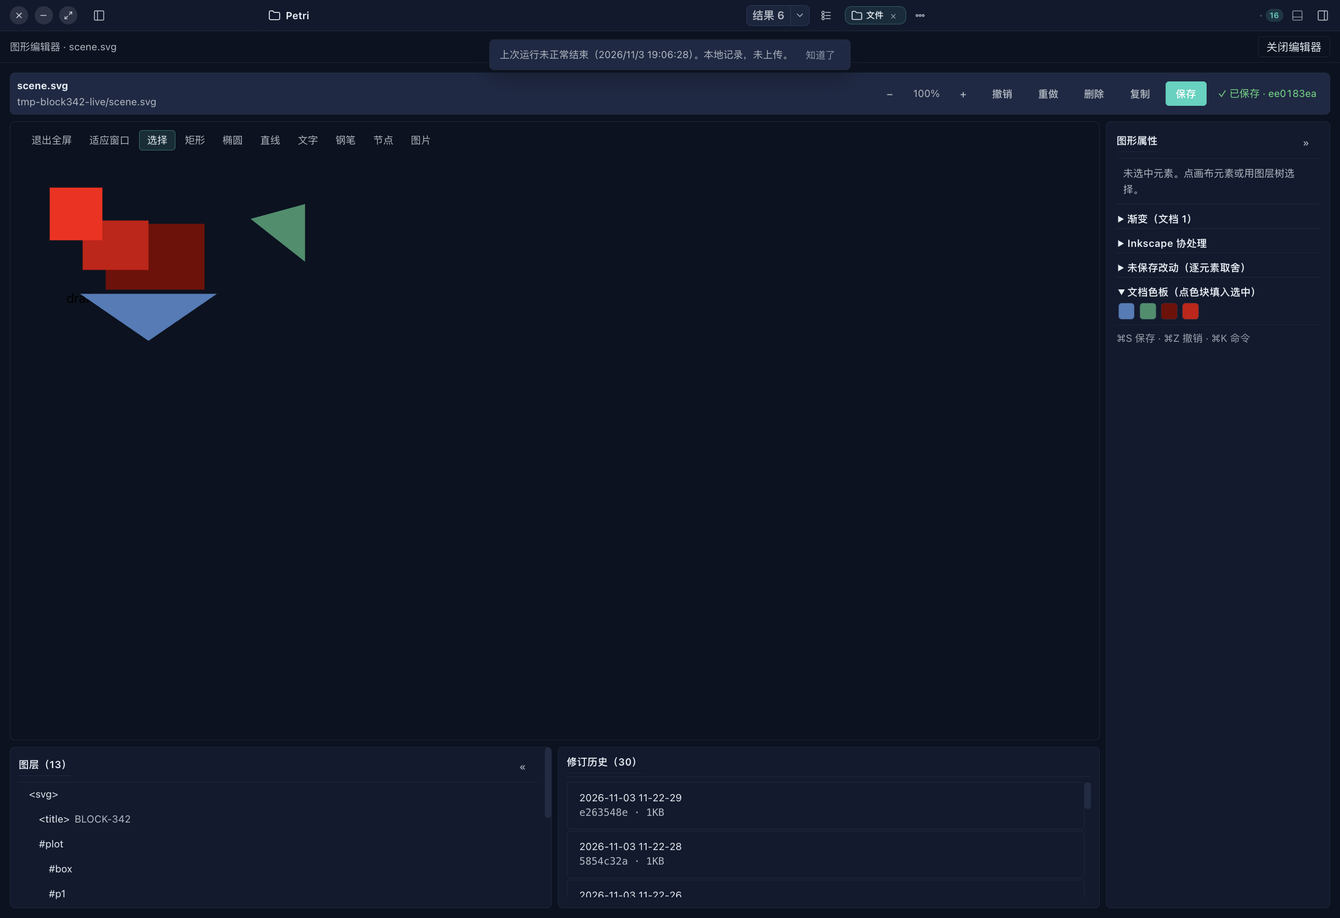
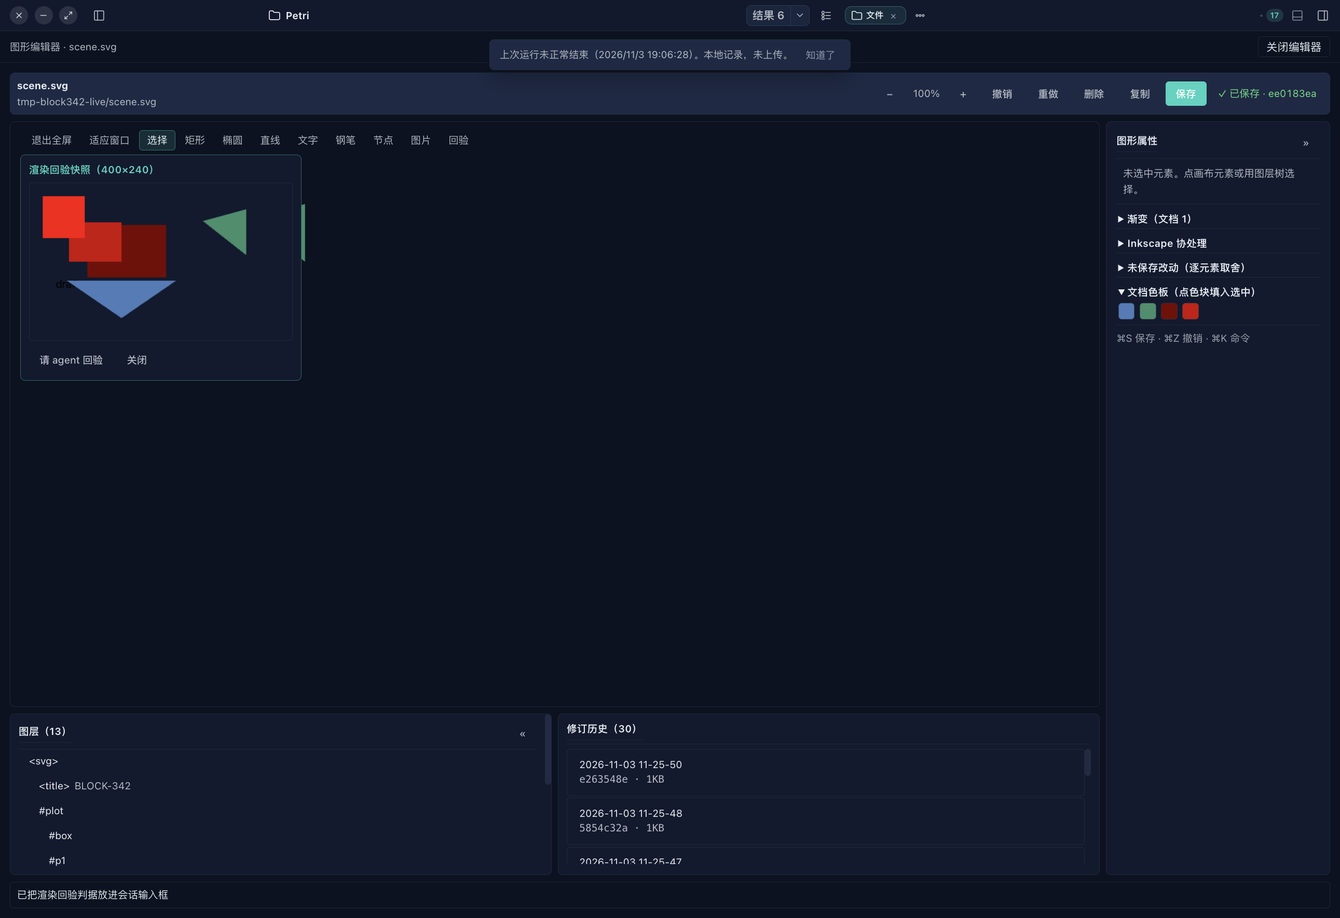
feat(block-342): UI-676 —— 渲染回验：当前视图 PNG 快照 + 判据注入会话（切片7，实机 53/53）
工具栏「回验」→ 当前视图按 viewBox 等比渲染 PNG（Blob→Image→离屏 canvas，最长边 ≤1024；
画布污染/解码失败如实报错）→ 浮条预览（gradientSwatch 同族边框 token）→ 「请 agent 回验」
copilotAsk 注入判据 prompt（文件路径 + 待保存 op 摘要（opLabel 复用）+ svg_inspect 结构回验
判据，指路 svg_edit propose 先说方案）。
诚实边界：vision 判据（快照图片进会话看图）需附件通道——如实 reopen。

svg-editor 前端 62/62 + tsc 0 + lint 0 error。flow V20 两断言 → 53/53 allPass。
plan §8 reopen 七项全部交付或如实降档；含 audit:compact 自稳。flow 修正一处与 V12 变量重名。
G0 开发期常态 · 不外推 packaged/Provider/GA。

diff --git a/frontend/src/components/svg-editor/SvgEditorViewer.tsx b/frontend/src/components/svg-editor/SvgEditorViewer.tsx
@@ -224,6 +224,8 @@ export function SvgEditorViewer({
   const [inkscape, setInkscape] = React.useState<InkscapeStatus | null>(null);
   // 切片6 提案幽灵：agent svg_edit propose 结果（previewMarkup + ops），路径匹配当前文件才收
   const [proposal, setProposal] = React.useState<{ markup: string; ops: SvgOp[] } | null>(null);
+  // 切片7 渲染回验：当前视图 → PNG 自证 + 判据 prompt 注入会话
+  const [renderCheck, setRenderCheck] = React.useState<{ png: string; width: number; height: number } | null>(null);
   React.useEffect(() => {
     let cancelled = false;
     inkscapeStatus(projectId)
@@ -385,6 +387,61 @@ export function SvgEditorViewer({
     setProposal(null);
     setNotice('已拒绝该提案（未应用任何 op）');
   }, []);
+
+  /** 切片7 渲染回验：当前视图 → 离屏 canvas PNG（data: URL；渲染失败/画布污染如实报错）。 */
+  const runRenderCheck = React.useCallback(() => {
+    const markupText = currentMarkup();
+    const vb = /viewBox="([\d.\-+\s]+)"/.exec(markupText);
+    let width = 800; let height = 480;
+    if (vb) {
+      const parts = vb[1].trim().split(/[\s,]+/).map(Number);
+      if (parts.length === 4 && parts[2] > 0 && parts[3] > 0) {
+        const cap = 1024;
+        const scale = Math.min(1, cap / Math.max(parts[2], parts[3]));
+        width = Math.max(1, Math.round(parts[2] * scale));
+        height = Math.max(1, Math.round(parts[3] * scale));
+      }
+    }
+    const blob = new Blob([markupText], { type: 'image/svg+xml;charset=utf-8' });
+    const url = URL.createObjectURL(blob);
+    const img = new Image();
+    const cleanup = () => URL.revokeObjectURL(url);
+    img.onload = () => {
+      try {
+        const canvas = document.createElement('canvas');
+        canvas.width = width; canvas.height = height;
+        const ctx = canvas.getContext('2d');
+        if (!ctx) { setNotice('渲染回验失败：canvas 2D 上下文不可用'); cleanup(); return; }
+        ctx.drawImage(img, 0, 0, width, height);
+        const png = canvas.toDataURL('image/png');
+        setRenderCheck({ png, width, height });
+        setNotice(`渲染回验快照已生成（${width}×${height}）`);
+      } catch (drawError: unknown) {
+        setNotice(`渲染回验失败：${drawError instanceof Error ? drawError.message : String(drawError)}（含外链资源时浏览器会污染画布）`);
+      } finally {
+        cleanup();
+      }
+    };
+    img.onerror = () => { setNotice('渲染回验失败：视图无法解码为位图'); cleanup(); };
+    img.src = url;
+  }, [currentMarkup]);
+
+  /** 切片7 判据注入：copilotAsk 带路径 + 待保存 op 摘要 + 结构回验判据（指路 svg_inspect/svg_edit）。 */
+  const askRenderCheck = React.useCallback(() => {
+    if (!renderCheck) return;
+    const summary = pendingOps.length > 0
+      ? pendingOps.map((op) => opLabel(op)).join('；')
+      : '（无待保存改动）';
+    dispatchPetriEvent(petriEvents.copilotAsk, {
+      prompt: [
+        `渲染回验请求（${filePath}，快照 ${renderCheck.width}×${renderCheck.height}）：`,
+        `当前待保存改动：${summary}。`,
+        '请用 svg_inspect 读取该文件当前结构，对照以上渲染意图逐条核对是否落地且自洽（几何/属性引用/渐变与图片 id 存在等）；',
+        '发现可疑处先用 svg_edit propose 说方案，我确认后再 apply。',
+      ].join('\n'),
+    });
+    setNotice('已把渲染回验判据放进会话输入框');
+  }, [filePath, pendingOps, renderCheck]);
 
   /** 选中变化：同时刷新属性面板与文档色板（都在事件里读活视图，渲染期不读 ref/DOM）。 */
   const syncSelection = React.useCallback((next: Set<string>) => {
@@ -892,6 +949,21 @@ export function SvgEditorViewer({
           ) : null}
 
           <div className={layout.stage} onWheel={handleWheel}>
+            {renderCheck ? (
+              <div className={styles.proposalBar} data-testid="svg-editor-render-check">
+                <span className={styles.proposalTitle}>渲染回验快照（{renderCheck.width}×{renderCheck.height}）</span>
+                <img
+                  className={styles.renderCheckPreview}
+                  src={renderCheck.png}
+                  alt="当前视图渲染快照"
+                  data-testid="svg-editor-render-check-img"
+                />
+                <div className={styles.rowActions}>
+                  <button type="button" className={button.ghost} data-action="render-check-ask" onClick={askRenderCheck}>请 agent 回验</button>
+                  <button type="button" className={button.ghost} data-action="render-check-close" onClick={() => setRenderCheck(null)}>关闭</button>
+                </div>
+              </div>
+            ) : null}
             {proposal ? (
               <div className={styles.proposalBar} data-testid="svg-editor-proposal">
                 <span className={styles.proposalTitle}>agent 提案（{proposal.ops.length} 项 op）</span>
@@ -949,6 +1021,15 @@ export function SvgEditorViewer({
                 onClick={() => fileInputRef.current?.click()}
               >
                 图片
+              </button>
+              <button
+                type="button"
+                className={styles.tool}
+                data-action="render-check"
+                title="渲染回验：当前视图渲染成 PNG 快照 + 判据注入会话"
+                onClick={runRenderCheck}
+              >
+                回验
               </button>
               <input
                 ref={fileInputRef}

diff --git a/frontend/src/components/svg-editor/SvgEditorViewer.module.css b/frontend/src/components/svg-editor/SvgEditorViewer.module.css
@@ -2126,3 +2126,10 @@
   max-height: 180px;
   overflow: auto;
 }
+
+.renderCheckPreview {
+  max-width: 320px;
+  max-height: 200px;
+  border: 1px solid var(--petri-border-card);
+  border-radius: var(--petri-radius-sm);
+}

diff --git a/docs/AUDIT-LOG.md b/docs/AUDIT-LOG.md
@@ -1,4 +1,5 @@
 # 审计广播台 (AUDIT-LOG)
+最后更新：2026-11-03（✅ **BLOCK-342 切片7：渲染回验（UI-676；实机 53/53）**：工具栏「回验」→ 当前视图按 viewBox 等比 PNG 快照（Blob→Image→离屏 canvas ≤1024；画布污染/解码失败如实报错）→ 浮条预览 → 「请 agent 回验」copilotAsk 注入判据（路径+待保存 op 摘要+svg_inspect 结构回验判据，propose 先说方案）。vision 判据（看图进会话）如实 reopen 待附件通道。前端 62/62 + tsc 0 + lint 0；flow V20 两断言。**至此 plan §8 reopen 七项全部交付或如实降档**（路径节点/钢笔/图片嵌入/渐变/Inkscape 探针+守卫/提案幽灵/渲染回验），余=chat 派发侧接线、vision 判据附件通道、位图描摹、版本对比/历史面板。G0 开发期常态 · 不外推 packaged/Provider/GA。）
 最后更新：2026-11-03（✅ **BLOCK-342 切片6：提案幽灵叠加（UI-675；实机 51/51）**：事件协议 petri:svg-proposal（events.ts 类型化登记）+ 编辑器订阅（path 匹配/形态校验不猜）+ previewMarkup 半透明 ghost 同 scale 叠加 + 提案浮条逐项接受（op 序列即语义 diff，单 op commit）/全部接受/拒绝。**chat 派发侧接线=reopen**（通用工具结果渲染链单独切片，flow 以合成事件实机验证编辑器侧全链）。前端 62/62 + tsc 0 + lint 0；flow V19 三断言（ghost 在场/接受后退场+落盘前置/落盘）。G0 开发期常态 · 不外推 packaged/Provider/GA。）
 最后更新：2026-11-03（✅ **BLOCK-342 切片5：Inkscape 协处理器（UI-674；实机 48/48）**：探针（env PETRI_INKSCAPE_BIN 优先+常见路径，只查 X_OK）+ 面板诚实灰化（缺席提示+动作按钮不渲染）+ 受治理动作守卫（union/difference/intersection/text-to-path/export-pdf；临时产物 before-sha 守卫 + 审计快照写回，不绕过治理；缺席 503 inkscape_unavailable，工具层探针前置零 DB）。位图描摹仍 reopen；真实执行链装 Inkscape 后即用（本机未装=常态，不冒 verified）。契约 28/28 + tsc 0 + lint 0；实机抓真：后端路由更新须重启 Electron 子进程，重启竞态曾致 fallback 端口（63577）——dev 栈整体重启干净绑定 3001。G0 开发期常态 · 不外推 packaged/Provider/GA。）
 最后更新：2026-11-03（✅ **BLOCK-342 切片4：渐变编辑（UI-673；实机 46/46）**：线性/径向新建+应用（横/竖/斜预设、起止色）、文档渐变列表+预览条、选中引用渐变的 stop 行内编辑（自建 stop 带 id 走 id 编辑）。抓真后端 insert markup=「恰好一个元素」口径（parseSvg.elements 全量后代计数）→ 渐变拆全单元素 op 序列：缺 defs 先插根 end（不扰动 path）→ 空壳渐变 → stop 逐个按 id 插；后端零改动。测试 9/9 + 前端 62/62 + tsc 0 + lint 0；flow V17 四断言全过。G0 开发期常态 · 不外推 packaged/Provider/GA。）
@@ -6,10 +7,6 @@
 最后更新：2026-11-03（✅ **BLOCK-342 切片2：路径节点编辑 + 基础钢笔（UI-671；实机 40/40）**：节点工具=单选 path 出锚点/贝塞尔手柄 overlay，拖拽 live 改 d、pointerup 落单个 set_attr op（keepSelection）；加点（L 中点/C de Casteljau 一分为二）/删点（C 并出段为单 C，退化如实拒）/平滑（出手柄镜像保原长）；钢笔=点列虚线预览、回首点闭合、Enter 开口、Esc 取消，insert op 落定回选择。后端零改动（insert 收原始 markup）。实机抓真两处：合成指针 setPointerCapture 抛 NotFoundError 挡 drag 赋值（先落状态再 try/catch）；同 tick 连击 setState 旧闭包（penPoints ref 镜像）；修 flow dragRef 泄漏（pointerup 改发 host）。测试 15/15 + 前端 47/47 + theme 17/17（accent +5 选中态把手登记）+ tsc 0 + lint 0 error（overlay 渲染期 DOM 读取豁免入库）。G0 开发期常态 · 不外推 packaged/Provider/GA。）
 最后更新：2026-11-03（✅ **BLOCK-342 UI-663 收口：改动清单按 pendingOps 重建（UI-670；实机 35/35）**：清单改由 pendingOps + history opsLen 快照直接切组（svgChangeList.ts 纯函数，语义 diff = op 列表本身，绕开反序列化可比性根因）；撤销一组 = 移除组 → 磁盘真值重建视图 → 按序回放剩余（快照栈如实清空）；`<details>` 默认收起 + 行级撤销/全部撤销，样式零新增。svgProposal 契约 6/6 原样保留供提案幽灵复用。测试 6/6 + 前端 40/40 + theme 17/17 + tsc 0 + lint 0；flow V9e 四断言全过。flow 修正一处误报（撤销等待改终态门轮询）。UI-663 **in_progress → verified**。G0 开发期常态 · 不外推 packaged/Provider/GA。）
 最后更新：2026-11-03（✅ **BLOCK-342 方案 A 收口批：modal 层级（UI-668）+ 272 列宽/常挂载/flow 适配（UI-669；实机 31/31）**：①抓真 HEAD flow 未适配 modal 方案 A（直接断言挂载 2/3 红、未提交 27/27 证据系落地前产物失配）→ 补缩略卡形态/入口点击/272 量宽/重开/关闭五腿回绿；②272 列宽根因行级定位=属性栏 aside 误嵌 leftCol（grid-column:2 被两列 grid 解释成 644 同历史卡位）→ 搬出后实机量宽 272 ✓ 并删冗余补丁规则；③图层/属性 aside 恢复常挂载+data-open（条件卸载与 display:none 收起设计及 V2d 契约矛盾）；④同批 UI-668（独立 probe 13/13）：整窗预览困于 tab/keep-alive z≈1 → 去困层 z、模态走 --petri-z-modal、data-petri-layer="modal" 接缝让位、.expanded 改填满宿主；⑤V2d 契约跟随产品裁决（色板默认展开 2114afa8、未保存改动区块移除 5c172066）。契约 22/22 + theme 17/17 + tsc 0 + lint 0 error。G0 开发期常态 · 不外推 packaged/Provider/GA。）
-最后更新：2026-11-03（✅ **BLOCK-342 产品级视觉精修（编辑器面板；theme 17/17 + 实机 28/28）**：字号统一 body（小字号棘轮禁 xs/sm），层级靠字重 600 + 字距 + 文字色三级；间距 10/8/6 节奏 + divider；属性行定宽标签列、控件等高并强制拉伸；圆角 radius 阶梯；hover `--petri-hover` / 激活 accent 底+边；过渡统一 duration-fast + ease-standard（motion token，reduced-motion 兜底）；sha 等宽数字、path mono、画布留白 12、收起列宽 54。截图过目后补两处（控件等宽、画布留白）。UI-666 verified。G0 开发期常态 · 不外推 packaged/Provider/GA。）
-最后更新：2026-11-03（✅ **BLOCK-342 折叠默认态修正（用户第二轮裁决）+ 图层栏可折叠（实机 28/28）**：默认**全收起**——工具栏只剩「工具 «」、图层栏与图形属性各收成 46px 竖排标题条（writing-mode）、色板/改动 details 收起，打开文件即最大画布；点 `»` 恢复 200/240px，**选中元素时属性栏自动展开**；grid 列宽按展开态组合切换。实机 `V2d` 断言 layers/inspector/toolGroup 三处 `data-open=0` + 展开按钮在场，28/28 allPass；契约 26/26 + lint 0 error。UI-665 已更新。G0 开发期常态 · 不外推 packaged/Provider/GA。）
-最后更新：2026-11-03（✅ **BLOCK-342 交互设计批：分区折叠 + 预览/确认状态区分（实机 28/28）**：工具栏「工具 »」可收；「图形属性」默认展开、右栏 `»` 整栏收起（画布变宽）；「文档色板」「未保存改动」默认折叠（details）。状态条三态=黄「● 未保存 N 项改动 · 实时预览中，⌘S 确认写盘」/灰「保存中…」/绿「✓ 已保存 · sha」——实时预览只改活视图，保存才提交（before-hash 冲突检测），避免未确认堆积。契约 26/26 + theme 17/17 + 实机 28/28（V2d/V9b3/V9d）；UI-665 verified。G0 开发期常态 · 不外推 packaged/Provider/GA。）
-最后更新：2026-11-03（✅ **BLOCK-342 用户核查反馈批：即时渲染真缺陷已修 + 能力扩容（实机 25/25）**：①**根因**=`commit()` 只 setMarkup 不落活视图，而 nextMarkup 取自未应用的 DOM ⇒ 改色/绘制要保存后才可见（拖拽即时是因为 Canvas 自己改了 DOM）；修法=commit 先 `applyOpsToDom`（op 全族）再序列化，实机 `V9b2_fill_live_rendered` PASS。②扩容=多选对齐 6 种（只改 transform）+ 字体下拉 + 适应窗口。契约 26/26 + tsc 0 + lint 0 + 实机 25/25；UI-664 verified。G0 开发期常态 · 不外推 packaged/Provider/GA。）
 
 
 

diff --git a/docs/archive/checkpoints/audit-log-through-2026-11-03.md b/docs/archive/checkpoints/audit-log-through-2026-11-03.md
@@ -44,3 +44,9 @@
 最后更新：2026-11-03（🟡 **BLOCK-342 W4 逐元素取舍：第二轮尝试仍空清单（如实收口，UI-663 保持 in_progress）**：把基线从「加载快照」改为「现读磁盘（cache:no-store）+ 重新脱敏」并对比视图序列化——实机仍空 → 定位于 `diffElements(磁盘文本, 视图序列化)` 的**输入可比性**（非基线来源）。两轮实机腿均已从 flow 回退（未验不计入通过），主链 24/24 保持绿。**下一步方向已定**=清单改由 `pendingOps` 生成（op 列表本就是语义 diff，避开反序列化），撤销=移除该组 op 后从磁盘重建视图再按序应用剩余。G0 开发期常态 · 不外推 packaged/Provider/GA。）
 最后更新：2026-11-03（🟡 **BLOCK-342 W4 reopen 第一刀：逐元素取舍（in_progress）**：后端 propose 增 `previewMarkup`（内存返回不落盘）；前端 `svgProposal` 逐元素 diff 四类差异 + 反向白名单 op（被删元素如实拒绝）；UI「未保存改动」区块（列出/单项撤销/全部撤销）。代码面契约 6/6 + tsc 0 + lint 0；**实机链「列出改动」返回空清单未定位** → UI-663 in_progress，不冒 verified，实机腿已从 flow 回退。主链实机仍 24/24（绘制腿加重试加固：离屏首帧时序）。G0 开发期常态 · 不外推 packaged/Provider/GA。）
 最后更新：2026-11-03（✅ **BLOCK-342 W2-W4 交付切片完成（整链实机 24/24 allPass）**：W2 属性面板 8 类/文档色板/批量套样式/样式复制粘贴/多行 tspan 行内文字；W3 绘制矩形·椭圆·直线·文字（拖拽 → 白名单 insert）；W4 选区 → 唯一 `copilotAsk` 通道（结构化引用含 path/属性，指路 svg_edit 先说方案）。**实机抓真第二处真缺陷并修**=绘制坐标用 `getScreenCTM()` 在离屏窗口返回 null → 绘制静默失效，改 `boundingRect + viewBox` 比例换算。证据 `acceptance/block-342/`（24/24 + png，实例与样本跑完即清理）。UI-662 verified。**reopen 逐项留档**=选区浮动条/渐变/路径节点·钢笔/图片嵌入/Inkscape 协处理器/提案幽灵与逐元素接受/版本对比·历史面板/渲染回验（plan §8）。G0 开发期常态 · 不外推 packaged/Provider/GA。）
+
+<!-- audit-log-compact.mjs 追加 @ 2026-11-03T11:26:44.624Z -->
+最后更新：2026-11-03（✅ **BLOCK-342 产品级视觉精修（编辑器面板；theme 17/17 + 实机 28/28）**：字号统一 body（小字号棘轮禁 xs/sm），层级靠字重 600 + 字距 + 文字色三级；间距 10/8/6 节奏 + divider；属性行定宽标签列、控件等高并强制拉伸；圆角 radius 阶梯；hover `--petri-hover` / 激活 accent 底+边；过渡统一 duration-fast + ease-standard（motion token，reduced-motion 兜底）；sha 等宽数字、path mono、画布留白 12、收起列宽 54。截图过目后补两处（控件等宽、画布留白）。UI-666 verified。G0 开发期常态 · 不外推 packaged/Provider/GA。）
+最后更新：2026-11-03（✅ **BLOCK-342 折叠默认态修正（用户第二轮裁决）+ 图层栏可折叠（实机 28/28）**：默认**全收起**——工具栏只剩「工具 «」、图层栏与图形属性各收成 46px 竖排标题条（writing-mode）、色板/改动 details 收起，打开文件即最大画布；点 `»` 恢复 200/240px，**选中元素时属性栏自动展开**；grid 列宽按展开态组合切换。实机 `V2d` 断言 layers/inspector/toolGroup 三处 `data-open=0` + 展开按钮在场，28/28 allPass；契约 26/26 + lint 0 error。UI-665 已更新。G0 开发期常态 · 不外推 packaged/Provider/GA。）
+最后更新：2026-11-03（✅ **BLOCK-342 交互设计批：分区折叠 + 预览/确认状态区分（实机 28/28）**：工具栏「工具 »」可收；「图形属性」默认展开、右栏 `»` 整栏收起（画布变宽）；「文档色板」「未保存改动」默认折叠（details）。状态条三态=黄「● 未保存 N 项改动 · 实时预览中，⌘S 确认写盘」/灰「保存中…」/绿「✓ 已保存 · sha」——实时预览只改活视图，保存才提交（before-hash 冲突检测），避免未确认堆积。契约 26/26 + theme 17/17 + 实机 28/28（V2d/V9b3/V9d）；UI-665 verified。G0 开发期常态 · 不外推 packaged/Provider/GA。）
+最后更新：2026-11-03（✅ **BLOCK-342 用户核查反馈批：即时渲染真缺陷已修 + 能力扩容（实机 25/25）**：①**根因**=`commit()` 只 setMarkup 不落活视图，而 nextMarkup 取自未应用的 DOM ⇒ 改色/绘制要保存后才可见（拖拽即时是因为 Canvas 自己改了 DOM）；修法=commit 先 `applyOpsToDom`（op 全族）再序列化，实机 `V9b2_fill_live_rendered` PASS。②扩容=多选对齐 6 种（只改 transform）+ 字体下拉 + 适应窗口。契约 26/26 + tsc 0 + lint 0 + 实机 25/25；UI-664 verified。G0 开发期常态 · 不外推 packaged/Provider/GA。）

diff --git a/docs/block-342-svg-editor-plan.md b/docs/block-342-svg-editor-plan.md
@@ -100,7 +100,11 @@ W1 收口门禁清单（收口时逐项对账）：
 - **验证**：`svgProposal.test` **6/6**（四类差异、零改动空清单、恢复 op 形状、删除项如实拒绝、汇总跳过计数、解析失败不猜）；`tsc` 0；lint 0 error。
 - **实机状态（如实·两轮尝试未通）**：①第一轮用加载快照 `baseMarkup` 作基线 → 实机「列出改动」空清单；②第二轮改为**现读磁盘**（`cache:no-store` + 重新脱敏）并对比 `serializeRoot(view)` → **仍为空**，说明问题在 `diffElements(磁盘文本, 视图序列化)` 这一对输入的可比性（DOM 序列化形态 vs 解析器期望），不在基线来源。两轮均从 flow 回退（未验行为不计入通过），UI-663 保持 `in_progress`。
 - **下一步（已定方向，未实施）**：改动清单改由 `pendingOps` 直接生成（op 列表本就是语义 diff，无需反序列化视图）；撤销一项 = 从 pendingOps 移除该组 → 以磁盘文本重建视图再按序应用剩余 op。这样既避开 DOM 序列化可比性问题，也与「语义 diff = op 列表」的原始设计一致。
-- **reopen（承接）**：①agent 提案进入编辑器的 **chat 派发侧接线**（事件协议 `petri:svg-proposal` 已定型，编辑器侧全链 UI-675 verified；通用工具结果渲染链接线单独切片）；②版本对比（洋葱皮）与历史面板（人+agent 同一时间线）；③渲染回验（改→渲染→vision）。
+- **reopen（承接）**：①agent 提案进入编辑器的 **chat 派发侧接线**（事件协议 `petri:svg-proposal` 已定型，编辑器侧全链 UI-675 verified；通用工具结果渲染链接线单独切片）；②版本对比（洋葱皮）与历史面板（人+agent 同一时间线）；③渲染回验的 **vision 判据**（快照图片进会话需附件通道；结构回验已交付 UI-676 verified）。
+
+### §9.3 渲染回验（2026-11-03 切片7 → UI-676 verified）
+
+「回验」按钮 → 当前视图按 viewBox 等比渲染 PNG 快照（Blob→Image→离屏 canvas，最长边 ≤1024；画布污染/解码失败如实报错）→ 浮条预览 → 「请 agent 回验」copilotAsk 注入判据 prompt（路径 + 待保存 op 摘要 + 结构回验判据，指路 svg_inspect/svg_edit）。vision 判据（看图）如实 reopen 待附件通道。flow 两断言，总 53/53 allPass。
 
 ### §9.2 提案幽灵叠加（2026-11-03 切片6 → UI-675 verified）
 

diff --git a/docs/ui-productization-audit.md b/docs/ui-productization-audit.md
@@ -1,5 +1,11 @@
 # Petri Desktop UI 产品化审计台账
 
+## UI-676: SVG 编辑器渲染回验——当前视图 PNG 快照 + 判据注入会话（BLOCK-342 切片7；2026-11-03 **verified（dev Electron 边界内；实机 53/53 allPass）**）
+
+- **交互**：工具栏「回验」→ 当前视图（serialize 后按 viewBox 等比，最长边 ≤1024）经 Blob→Image→离屏 canvas 渲染为 PNG 快照浮条（预览 + 尺寸标注）；「请 agent 回验」→ copilotAsk 注入判据 prompt（文件路径 + 待保存 op 摘要 + 结构回验判据，指路 svg_inspect/svg_edit propose-先说方案）。
+- **诚实边界**：vision 判据（快照图片进会话由模型看图）需附件通道（BLOCK-225 D4 附件面）——**如实 reopen**；当前判据为结构回验（svg_inspect 对照渲染意图逐条核对）。画布污染（外链资源）与解码失败如实报错。
+- **验证**：svg-editor 前端 62/62 + tsc 0 + lint 0 error；实机 flow 两新断言（`V20_render_check_snapshot` PNG data URL 快照浮条 / `V20b_render_check_asked` copilotAsk 载荷含路径与 svg_inspect 判据），总 **53/53 allPass**。
+
 ## UI-675: SVG 编辑器提案幽灵——agent 提案叠加层 + 逐项接受/拒绝（BLOCK-342 切片6；2026-11-03 **verified（dev Electron 边界内；实机 51/51 allPass）**）
 
 - **事件协议**：`petri:svg-proposal`（events.ts 中心登记 + PetriEventMap 类型化）——载荷 `{path, previewMarkup, ops, source}`；编辑器订阅并按 path 匹配当前文件，校验 markup/ops 形态（不猜）。**进入通道的 chat 派发侧 = reopen**（通用工具结果渲染链，单独切片接线；当前任何持有 propose 结果的面可派发，flow 以合成事件实机验证编辑器侧全链）。
